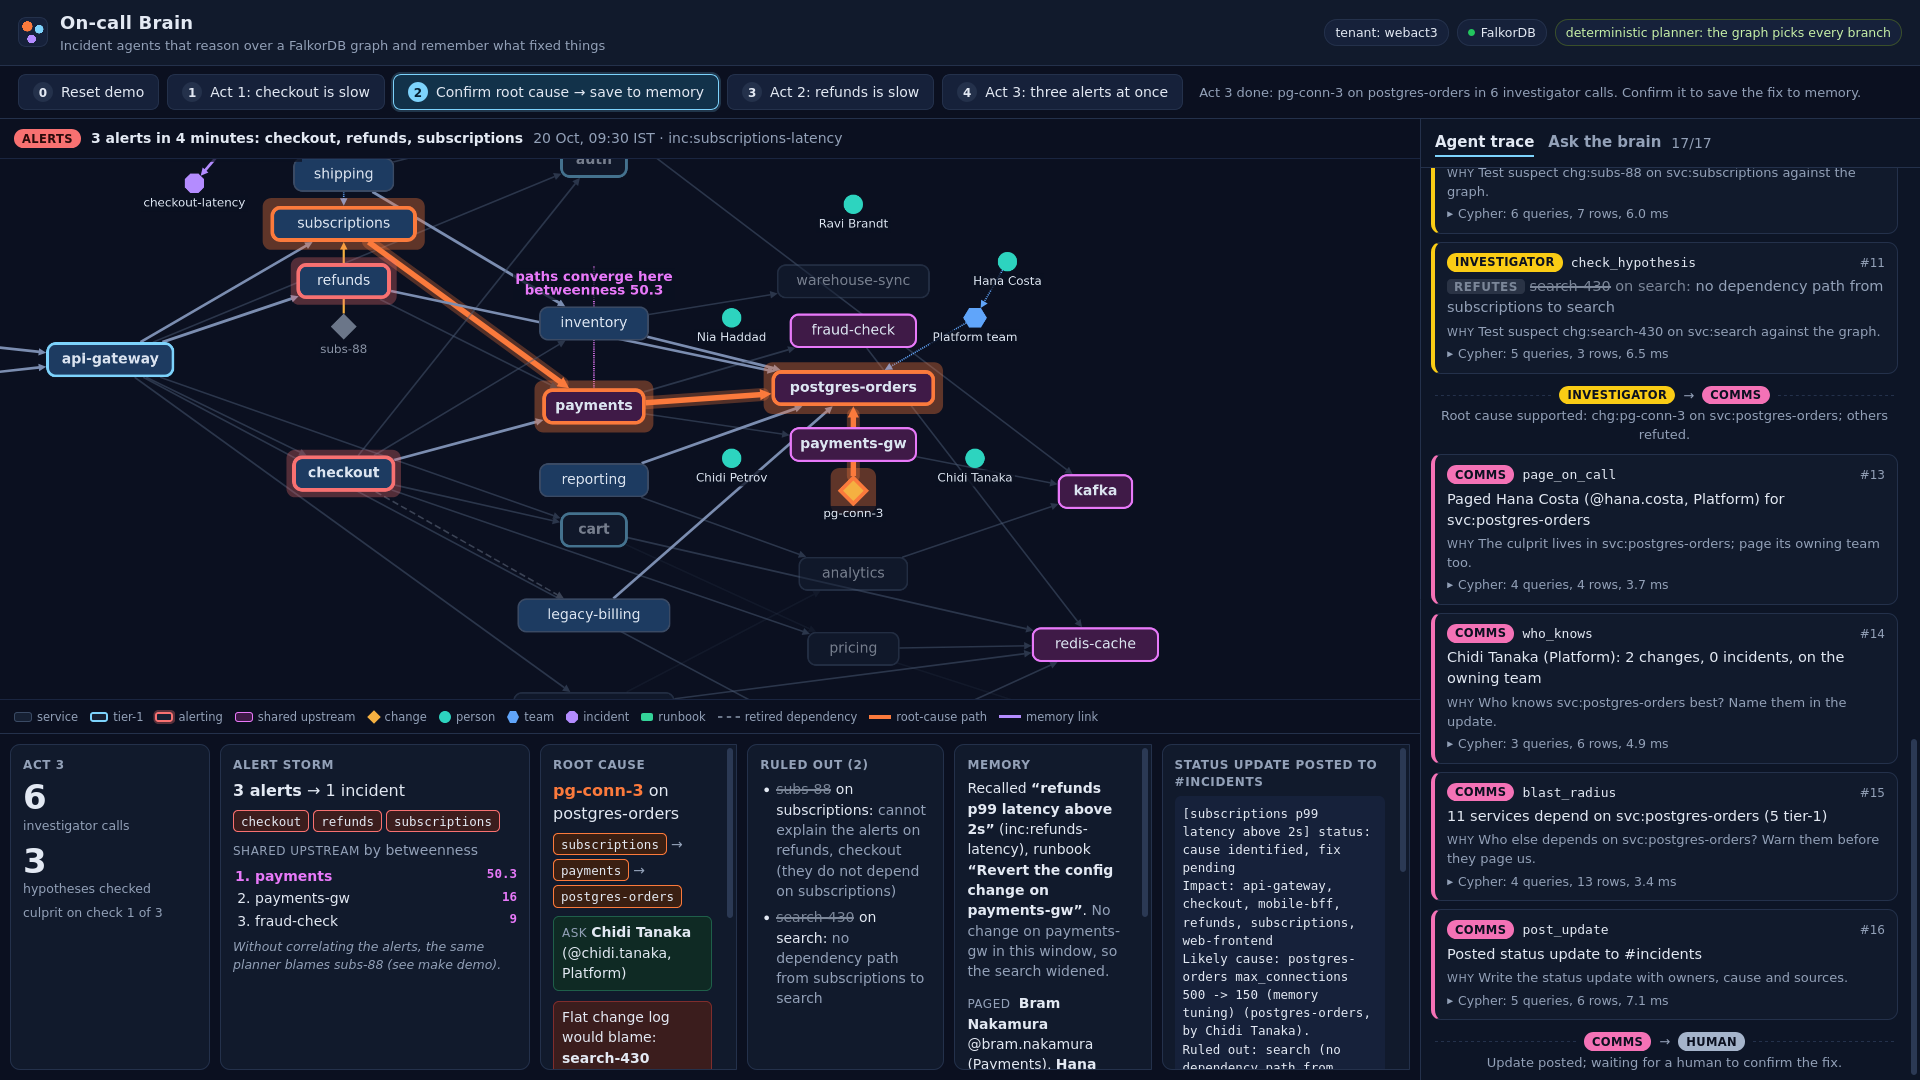
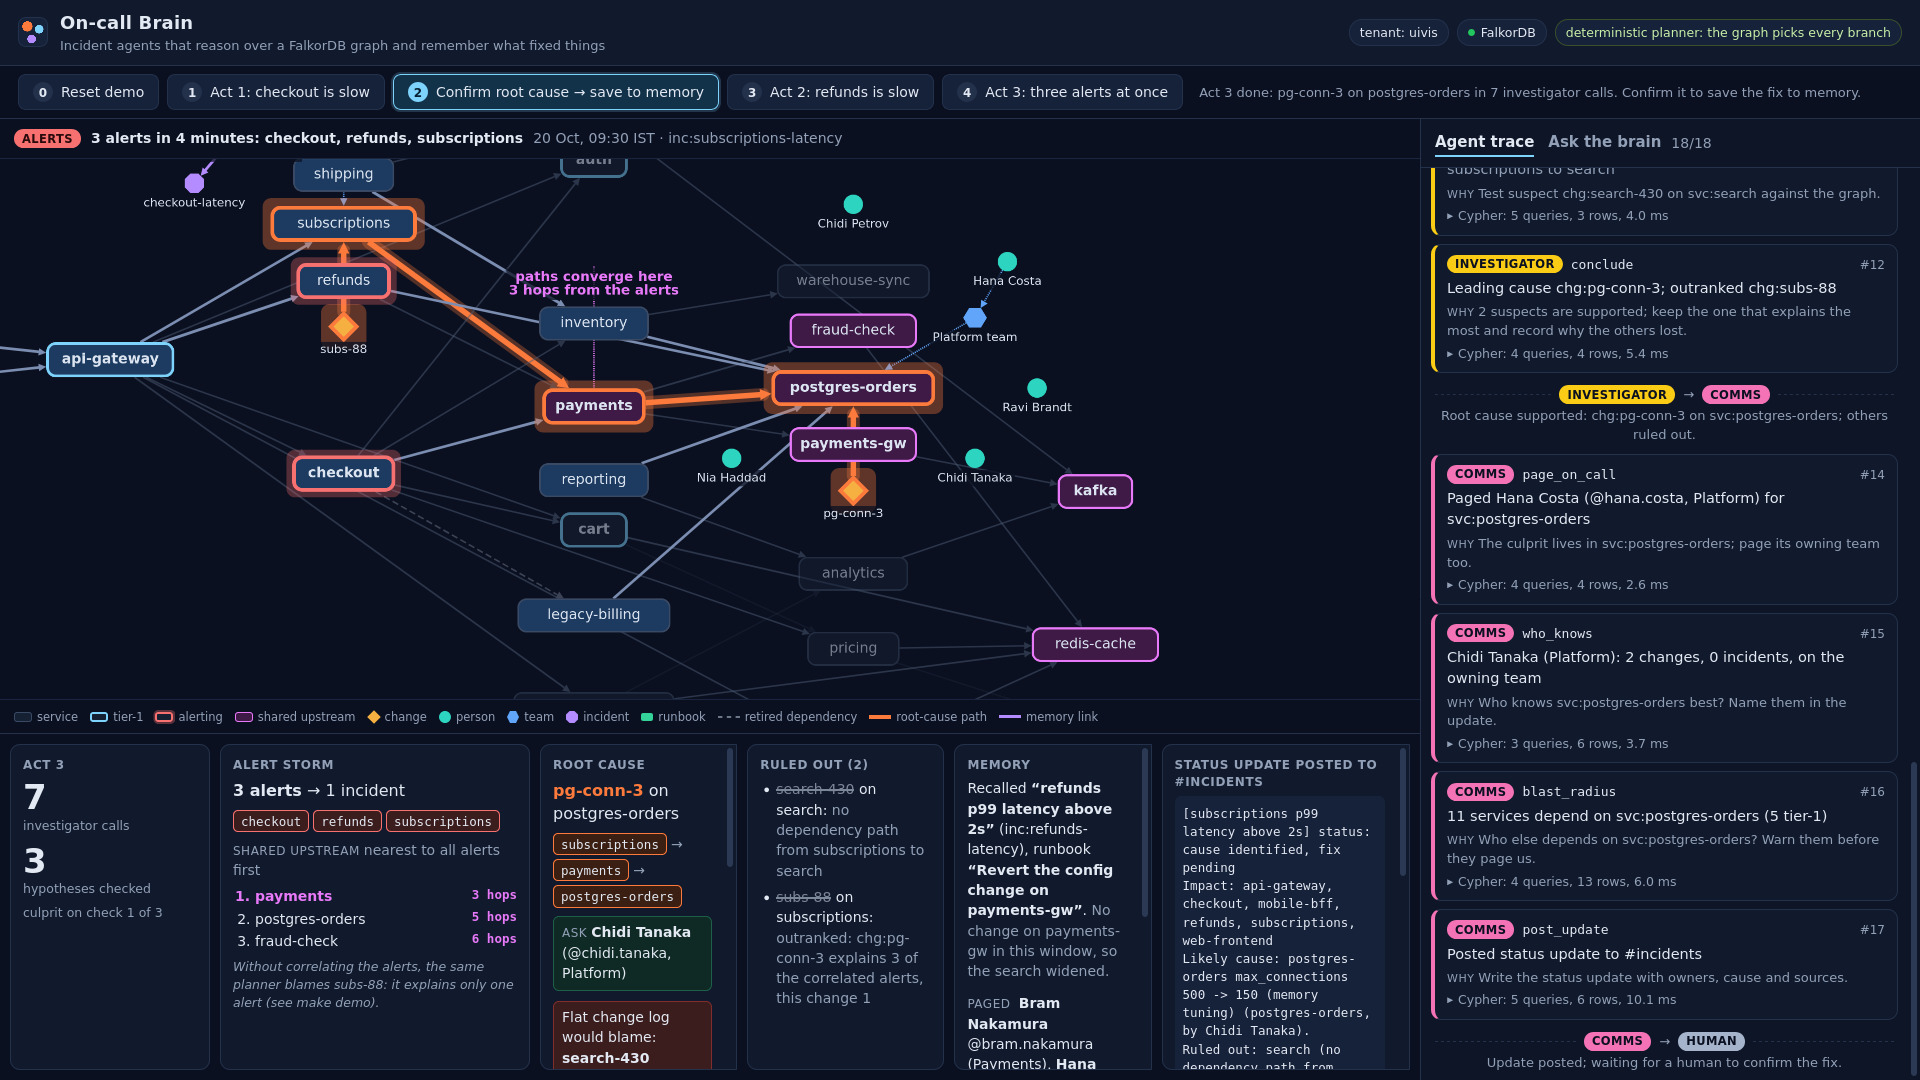
feat(ui): storm ranked by convergence, conclude step, anomaly-aware baseline line

diff --git a/web/app.js b/web/app.js
@@ -107,7 +107,7 @@ const STYLE = [
   { selector: 'node.hot', style: { 'border-color': C.hot, 'border-width': 3, 'underlay-color': C.hot,
     'underlay-opacity': 0.25, 'underlay-padding': 7 } },
   { selector: 'edge.hot', style: { 'line-color': C.hot, 'target-arrow-color': C.hot, width: 3.5, opacity: 1 } },
-  // Alert storm: the alerting services and the top chokepoint keep their colour even while lit (hot).
+  // Alert storm: the alerting services and the top convergence point keep their colour even while lit (hot).
   { selector: 'node.storm', style: { 'border-color': C.alert, 'border-width': 3.5, 'underlay-color': C.alert,
     'underlay-opacity': 0.3, 'underlay-padding': 7 } },
   { selector: 'node.choke', style: { 'border-width': 3.5, 'underlay-color': C.shared, 'underlay-opacity': 0.35,
@@ -206,7 +206,7 @@ function elementsFor(hl) {
 }
 
 // Alert storm (correlate_alerts): alert ids are not graph nodes, so the alerting services get the alert style,
-// the shared upstream a tint, and the top betweenness chokepoint a note. Returns the note to light with the step.
+// the shared upstream a tint, and the top convergence point a note. Returns the note to light with the step.
 function markStorm(d) {
   const cy = state.cy;
   cy.getElementById(state.run.res.alert.service).addClass('alerting storm');
@@ -215,7 +215,7 @@ function markStorm(d) {
   const top = d.shared[0] && cy.getElementById(d.shared[0].service);
   if (!top?.nonempty()) return cy.collection();
   top.addClass('choke');
-  const label = `paths converge here\nbetweenness ${+d.shared[0].score.toFixed(1)}`;
+  const label = `paths converge here\n${d.shared[0].hops} hops from the alerts`;
   const note = cy.add({ group: 'nodes', classes: 'sat note', data: { id: 'note:choke', label },
     position: freeSpot(top.position(), 90, 150) });
   return note.union(cy.add({ group: 'edges', classes: 'note-link',
@@ -378,7 +378,8 @@ function intro() {
 
 function renderOutcome() {
   const res = state.run.res, o = res.outcome;
-  const rc = o.root_cause, bp = o.baseline_pick, mem = o.memory, rb = o.runbook, ex = o.expert;
+  const rc = o.root_cause, bp = o.baseline_pick, ab = o.anomaly_baseline_pick, mem = o.memory, rb = o.runbook,
+    ex = o.expert;
   const cites = res.steps.find((s) => s.tool === 'post_update')?.data?.cites || [];
   const recalled = mem.recalled[0];
 
@@ -397,6 +398,10 @@ function renderOutcome() {
       'Flat change log would blame: ', h('b', {}, short(bp.change)), ' ',
       h('span', { class: 'pill' }, o.baseline_correct ? 'same answer' : 'wrong'),
       h('span', { class: 'sub' }, bp.summary)) : null,
+    ab ? h('p', { class: `baseline ${o.anomaly_baseline_correct ? 'ok' : 'bad'}` },
+      'Change log + anomalies (no graph) would blame: ', h('b', {}, short(ab.change)), ' ',
+      h('span', { class: 'pill' }, o.anomaly_baseline_correct ? 'same answer' : 'wrong'),
+      h('span', { class: 'sub' }, ab.summary)) : null,
     rc ? [h('p', {}, rc.summary), h('p', { class: 'muted' }, rc.reason)] : null);
 
   const ruled = h('div', { class: 'card ruled' },
@@ -430,11 +435,11 @@ function renderOutcome() {
     h('p', { class: 'lead' }, h('b', {}, `${alerts.length} alerts`), ' → 1 incident'),
     h('span', { class: 'path' }, alerts.sort((a, b) => a.at - b.at).map((a) =>
       h('span', { class: 'hop alerting', title: `${a.name} · ${ist(a.at)}` }, short(a.service)))),
-    h('p', {}, h('span', { class: 'k' }, 'Shared upstream'), h('span', { class: 'muted' }, 'by betweenness')),
+    h('p', {}, h('span', { class: 'k' }, 'Shared upstream'), h('span', { class: 'muted' }, 'nearest to all alerts first')),
     h('ol', { class: 'shared-list' }, st.shared.slice(0, 3).map((s) => h('li', { value: s.rank },
-      h('span', {}, short(s.service)), h('span', { class: 'score' }, +s.score.toFixed(1))))),
+      h('span', {}, short(s.service)), h('span', { class: 'score' }, `${s.hops} hops`)))),
     state.run.act === 3 ? h('p', { class: 'caption' },
-      'Without correlating the alerts, the same planner blames subs-88 (see make demo).') : null);
+      'Without correlating the alerts, the same planner blames subs-88: it explains only one alert (see make demo).') : null);
 
   $('outcome').classList.toggle('has-storm', !!st);
   $('outcome').replaceChildren(...[h('div', { id: 'counter' }), storm, cause, ruled, memory, update].filter(Boolean));
